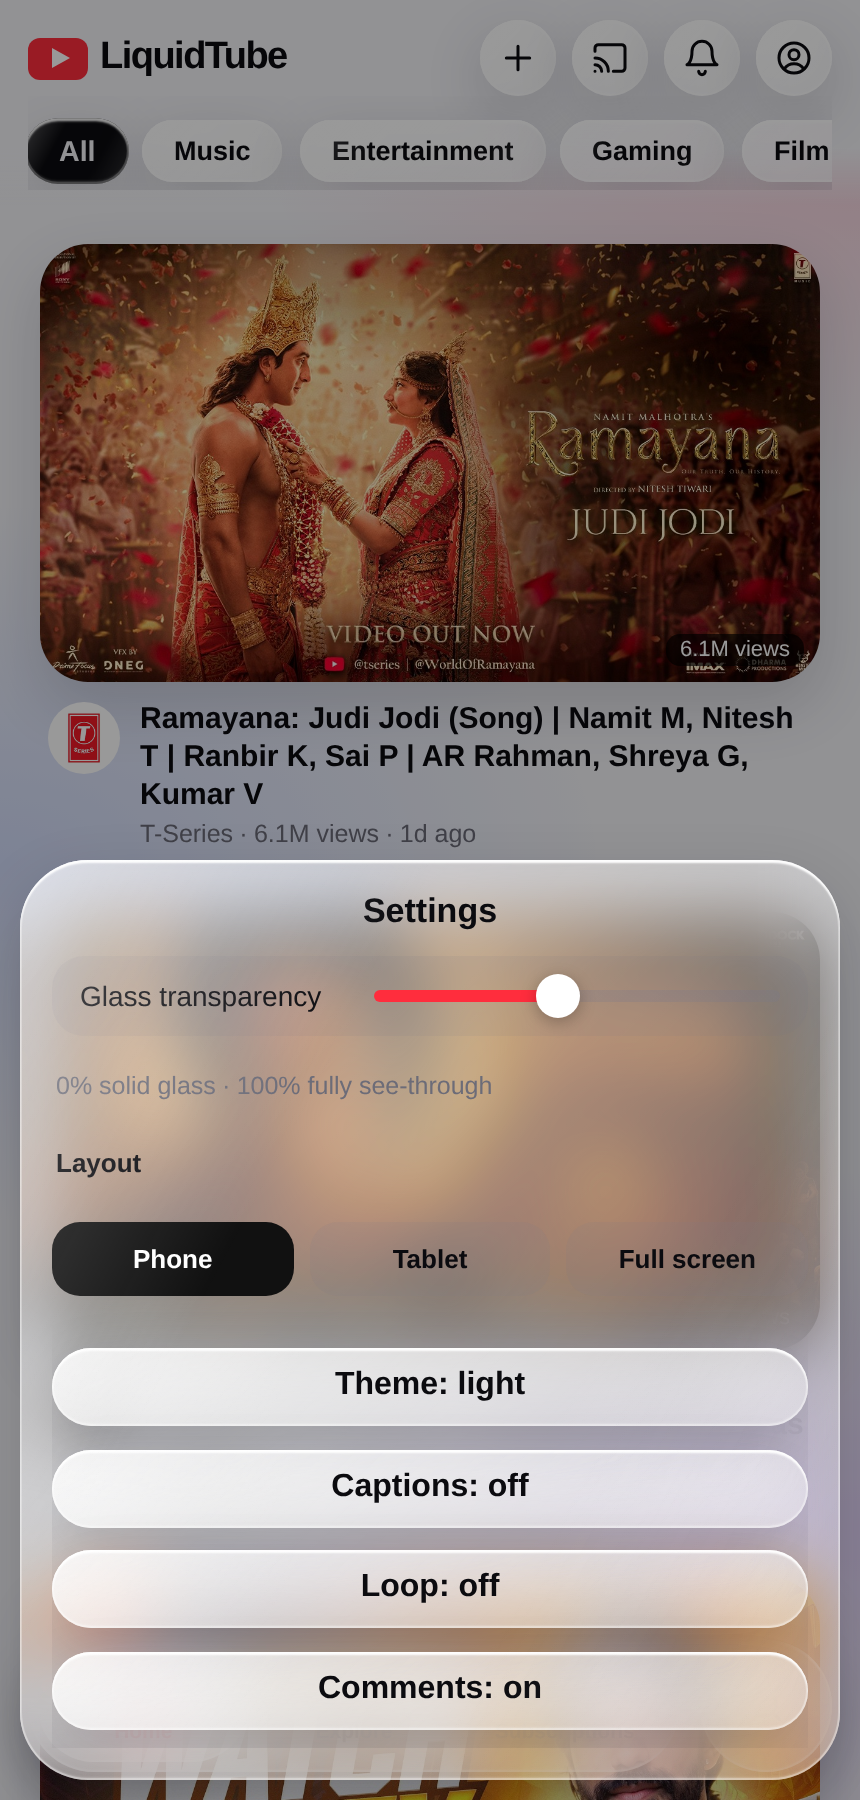
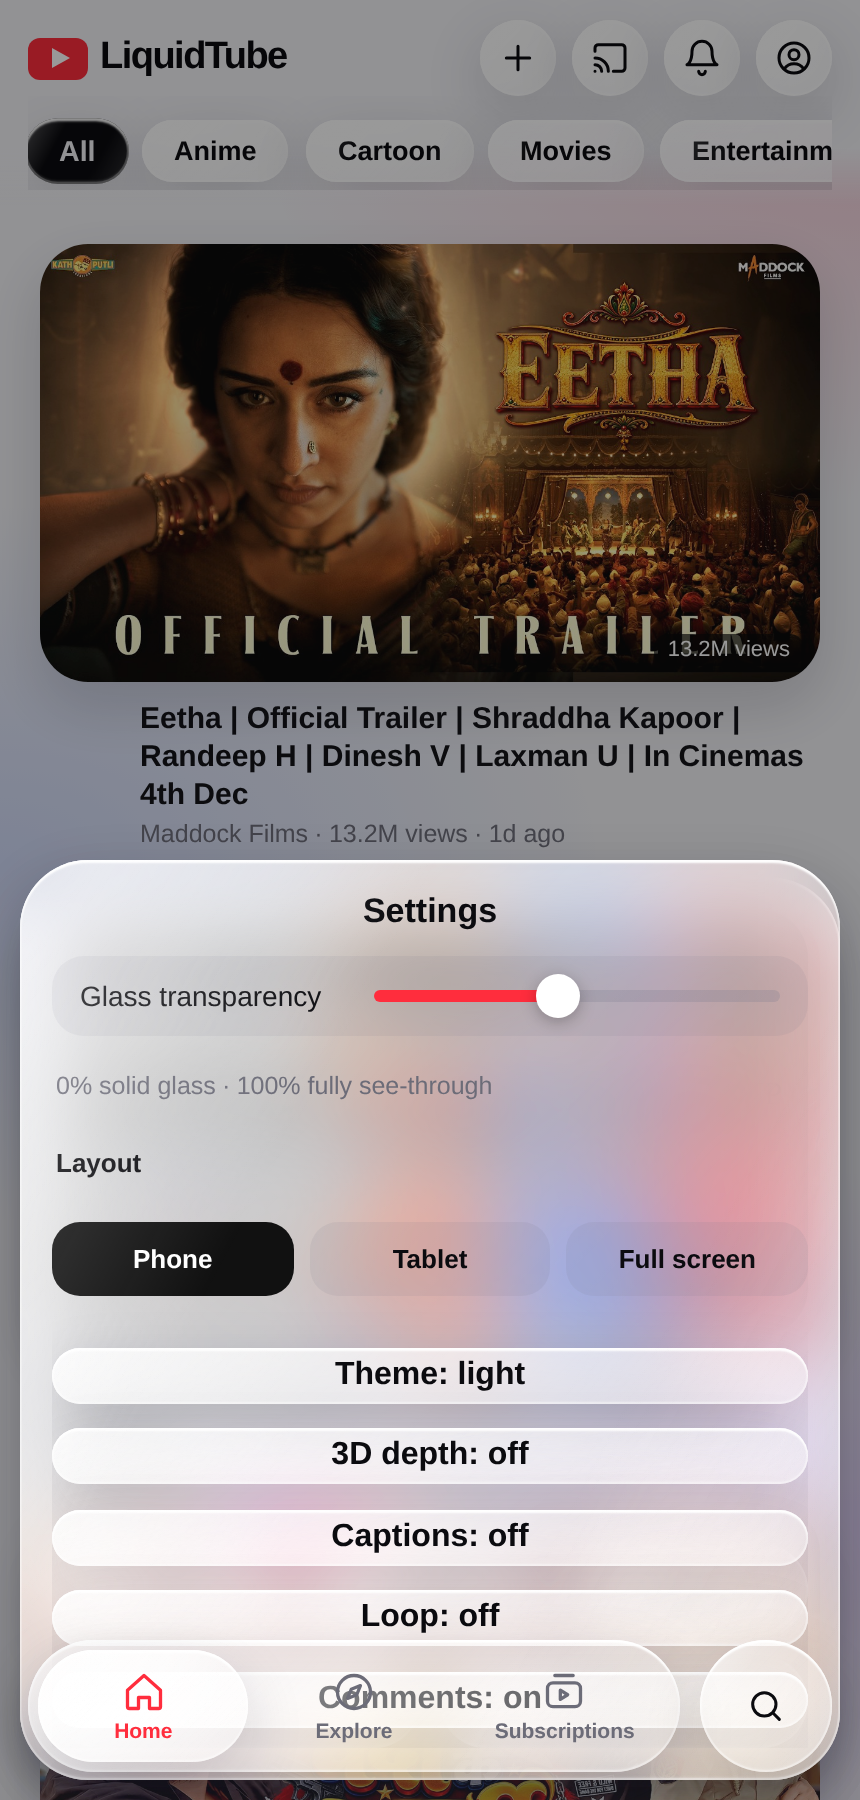
LiquidTube 7.5 — 3D depth
- Cards tilt under the finger: perspective on the list containers, preserve-3d on
  cards, pointer-driven rotateX/rotateY (9/11 degrees) plus translateZ(10px); thumb
  and meta sit on different Z planes for real parallax.
- Depth on scroll: cards recede (translateZ -30px, 5% scale) as they leave the
  centre, rAF-driven and limited to on-screen cards.
- Sheets rise with translateY + rotateX on the spring curve.
- Settings -> 3D depth on/off; html[data-depth=off] clears every transform.
- Fixed the depth default so the toggle flips on the first tap.
- APK rebuilt as versionCode 30 / versionName 7.5.

diff --git a/app/assets/index.html b/app/assets/index.html
@@ -19,7 +19,7 @@ button{font:inherit;color:inherit;background:none;border:0;cursor:pointer}
 .glass{position:relative;background:linear-gradient(135deg,var(--g1),var(--g2));backdrop-filter:blur(var(--glassBlur,16px)) saturate(190%) brightness(1.06);-webkit-backdrop-filter:blur(var(--glassBlur,16px)) saturate(190%) brightness(1.06);box-shadow:inset 0 0 0 1px rgba(255,255,255,.28),inset 0 1.5px 1px var(--rim),inset 0 -1.5px 1px rgba(255,255,255,.22),0 10px 30px var(--shade)}
 .glass::after{content:"";position:absolute;inset:0;border-radius:inherit;pointer-events:none;background:linear-gradient(118deg,rgba(255,255,255,.6),rgba(255,255,255,0) 32%,rgba(255,255,255,0) 68%,rgba(255,255,255,.3));opacity:.5}
 /* pages */
-.page{position:absolute;inset:0;overflow-y:auto;overflow-x:hidden;padding-bottom:150px;scrollbar-width:none;background:radial-gradient(70% 22% at 100% 6%,rgba(255,70,110,.22),transparent),radial-gradient(70% 20% at 0% 48%,rgba(70,120,255,.2),transparent),radial-gradient(70% 20% at 100% 85%,rgba(160,80,255,.18),transparent),var(--bg);transition:transform .95s var(--bounce-soft),opacity .45s ease;will-change:transform,opacity}
+.page{position:absolute;inset:0;z-index:0;overflow-y:auto;overflow-x:hidden;padding-bottom:150px;scrollbar-width:none;background:radial-gradient(70% 22% at 100% 6%,rgba(255,70,110,.22),transparent),radial-gradient(70% 20% at 0% 48%,rgba(70,120,255,.2),transparent),radial-gradient(70% 20% at 100% 85%,rgba(160,80,255,.18),transparent),var(--bg);transition:transform .95s var(--bounce-soft),opacity .45s ease;will-change:transform,opacity}
 .page::-webkit-scrollbar{display:none}.drag .page{transition:none}
 .top{position:sticky;top:0;z-index:5;padding:calc(env(safe-area-inset-top,0px) + 10px) 14px 8px;background:linear-gradient(var(--bg) 72%,transparent)}
 .row{display:flex;align-items:center;justify-content:space-between}
@@ -32,7 +32,16 @@ svg{width:20px;height:20px;fill:none;stroke:currentColor;stroke-width:1.8;stroke
 .chip{flex:none;padding:8px 16px;border-radius:99px;font-size:13.5px;font-weight:600;transition:background .3s,color .3s,scale .6s var(--bounce)}
 .chip.on{background:var(--ink);color:var(--bg);scale:1.06}
 h2{font-size:19px;font-weight:800;letter-spacing:-.03em;padding:14px 14px 8px}
-.card{margin:6px 14px 18px;text-align:left;display:block;width:calc(100% - 28px)}
+#feed,#subfeed,#chlist,#animefeed,#cartoonfeed,#moviesfeed,#results,#ex{perspective:1500px;perspective-origin:50% 40%}
+.card{margin:6px 14px 18px;text-align:left;display:block;width:calc(100% - 28px);
+  transform-style:preserve-3d;transform:translateZ(0);
+  transition:transform .55s var(--bounce),box-shadow .35s ease;
+  will-change:transform}
+.card.tilt{transition:transform .08s linear,box-shadow .2s ease}
+.card .thumb{transform:translateZ(0)}
+.card .meta{transform:translateZ(18px)}
+.card.tilt .thumb{box-shadow:0 26px 46px -18px rgba(10,12,26,.45)}
+html[data-depth=off] .card,html[data-depth=off] .card .meta{transform:none!important;transition:none}
 .thumb{aspect-ratio:16/9;border-radius:24px;position:relative;overflow:hidden;box-shadow:0 12px 30px var(--shade)}
 .thumb u{position:absolute;right:10px;bottom:10px;padding:2px 7px;border-radius:7px;background:#000a;color:#fff;font-size:11px;text-decoration:none}
 .meta{display:flex;gap:10px;padding:10px 4px}
@@ -54,7 +63,7 @@ input[type=range]::-moz-range-thumb{width:20px;height:20px;border:0;border-radiu
 .sg{display:grid;grid-template-columns:repeat(4,1fr);gap:12px;padding:6px 14px 10px}
 .sg button{text-align:center;font-size:11.5px;font-weight:600}.sg i{display:block;width:100%;aspect-ratio:1;border-radius:50%;margin-bottom:6px;box-shadow:0 6px 16px var(--shade);transition:transform .3s,outline-color .3s;outline:3px solid transparent;outline-offset:2px}.sg .on i{outline-color:var(--red);transform:scale(.92)}
 /* ===== dock ===== */
-.dock{position:absolute;left:14px;right:14px;bottom:calc(env(safe-area-inset-bottom,0px) + 14px);display:flex;gap:10px;z-index:20}
+.dock{position:absolute;left:14px;right:14px;bottom:calc(env(safe-area-inset-bottom,0px) + 14px);display:flex;gap:10px;z-index:60;transform-style:flat}
 .tabs{flex:1;height:66px;position:relative;touch-action:pan-y;user-select:none;-webkit-user-select:none}
 .tabs .bg{position:absolute;inset:0;border-radius:99px}
 .lens{position:absolute;left:5px;top:5px;bottom:5px;width:calc((100% - 10px)/3);border-radius:99px;transition:transform .9s var(--bounce);--g1:rgba(255,255,255,.7);--g2:rgba(255,255,255,.22);pointer-events:none}
@@ -77,6 +86,11 @@ input[type=range]::-moz-range-thumb{width:20px;height:20px;border:0;border-radiu
 #pl.on,#sheet.on{transform:none}
 #pl b{font-size:16px;line-height:1.3}#pl>span,.tm{font-size:12.5px;color:var(--mute)}.tm{display:flex;justify-content:space-between}
 .prow{display:flex;gap:10px;margin-top:4px}.prow button{flex:1;height:46px;border-radius:99px;font-weight:700}
+nav.dock{transition:transform .5s var(--bounce),box-shadow .4s ease}
+nav.dock:active{transform:scale(.985)}
+#sheet{transform-origin:50% 100%;transform:translateY(14px) rotateX(9deg) scale(.97);opacity:0;transition:transform .6s var(--bounce),opacity .35s ease}
+#sheet.on{transform:none;opacity:1}
+html[data-depth=off] nav.dock,html[data-depth=off] #sheet{transform:none!important}
 #sheet{max-height:70%}#sheet h3{font-size:17px;text-align:center;padding-bottom:4px}
 #shb{overflow:auto;display:flex;flex-direction:column;gap:12px;max-height:44vh}
 .cm{display:flex;gap:10px;font-size:13.5px;line-height:1.35}.cm .av{width:30px;height:30px}.cm small{color:var(--mute);display:block;font-size:11.5px}
@@ -244,8 +258,8 @@ const thumbImg=id=>'<img src="https://i.ytimg.com/vi/'+esc(id)+'/maxresdefault.j
 
 /* ---------- persisted state ---------- */
 const SKEY='lt';
-let S={liked:[],subs:[],later:[],hist:[],vd:{},pl:{},cats:{},opt:{cc:0,loop:0,auto:1,fill:0,cmt:1,ds:1,sg:1,glass:45,layout:'phone'}};
-try{const p=JSON.parse(localStorage.getItem(SKEY)||'{}');Object.assign(S,p);S.opt=Object.assign({cc:0,loop:0,auto:1,fill:0,cmt:1,ds:1,sg:1,glass:45,layout:'phone'},p.opt||{})}catch(e){}
+let S={liked:[],subs:[],later:[],hist:[],vd:{},pl:{},cats:{},opt:{cc:0,loop:0,auto:1,fill:0,cmt:1,ds:1,sg:1,depth:1,glass:45,layout:'phone'}};
+try{const p=JSON.parse(localStorage.getItem(SKEY)||'{}');Object.assign(S,p);S.opt=Object.assign({cc:0,loop:0,auto:1,fill:0,cmt:1,ds:1,sg:1,depth:1,glass:45,layout:'phone'},p.opt||{})}catch(e){}
 const save=()=>{try{localStorage.setItem(SKEY,JSON.stringify(S))}catch(e){}};
 S.vd=S.vd||{};try{localStorage.removeItem('lt_shorts')}catch(e){}
 document.addEventListener('touchstart',()=>{},{passive:true});
@@ -339,7 +353,7 @@ const meta=v=>[v.views?num(v.views)+' views':'',v.pub?ago(v.pub):''].filter(Bool
 const cardOf=(v,i)=>'<button class="card" style="--i:'+Math.min(i||0,8)+'" data-v="'+esc(v.id)+'"><div class="thumb">'+thumbImg(v.id)+(v.views?'<u>'+num(v.views)+' views</u>':'')+'</div>'+
   '<div class="meta">'+(v.ch&&CH[v.ch]&&CH[v.ch].av?'<img class="av" src="'+esc(CH[v.ch].av)+'" alt="" onerror="this.style.visibility=\'hidden\'">':'<div class="av" style="background:'+g(hash(v.id))+'"></div>')+
   '<div><b>'+esc(v.t)+'</b><span>'+esc(v.c)+(v.views?' · '+num(v.views)+' views':'')+(v.pub?' · '+ago(v.pub):'')+'</span></div></div></button>';
-const list=(arr,el)=>{el.innerHTML=arr&&arr.length?arr.map(cardOf).join(''):'<div class="empty">Nothing here yet.</div>'};
+const list=(arr,el)=>{el.innerHTML=arr&&arr.length?arr.map(cardOf).join(''):'<div class="empty">Nothing here yet.</div>';setTimeout(depthKick,60)};
 
 /* ---------- chips ---------- */
 let cat='All';
@@ -612,6 +626,7 @@ function settingsHTML(){
     '<div style="font-size:13px;font-weight:700;margin:0 2px 8px">Layout</div>'+
     '<div class="laychips">'+btn('phone','Phone')+btn('tablet','Tablet')+btn('full','Full screen')+'</div>'+
     '<button class="opt glass" data-tgl="theme">Theme: '+(document.documentElement.dataset.theme==='dark'?'dark':'light')+'</button>'+
+    '<button class="opt glass" data-opt="depth">3D depth: '+(DEPTH()?'on':'off')+'</button>'+
     '<button class="opt glass" data-opt="cc">Captions: '+(S.opt.cc?'on':'off')+'</button>'+
     '<button class="opt glass" data-opt="loop">Loop: '+(S.opt.loop?'on':'off')+'</button>'+
     '<button class="opt glass" data-opt="cmt">Comments: '+(S.opt.cmt?'on':'off')+'</button>';
@@ -651,7 +666,8 @@ $('shb').addEventListener('click',e=>{
       ids.length?ids.map(id=>V[id]?cardOf(V[id]):'').join(''):'<div class="empty">Nothing saved yet.</div>',0);
   }
   const o=e.target.closest('[data-opt]');
-  if(o){const k=o.dataset.opt;S.opt[k]=S.opt[k]?0:1;save();o.textContent=({cc:'Captions',loop:'Loop',cmt:'Comments'})[k]+': '+(S.opt[k]?'on':'off')}
+  if(o){const k=o.dataset.opt;S.opt[k]=S.opt[k]?0:1;save();if(k==='depth')applyDepth();
+    o.textContent=({cc:'Captions',loop:'Loop',cmt:'Comments',depth:'3D depth'})[k]+': '+(S.opt[k]?'on':'off')}
 });
 $('shpost').onclick=()=>toast('Comments open on YouTube');
 
@@ -718,6 +734,56 @@ loadTrending().then(()=>new Promise(r=>setTimeout(r,Math.max(0,1100-(performance
   renderExplore();
   renderSubs();
 });
+
+/* ---------- 3D depth: cards tilt under the finger ---------- */
+const DEPTH=()=>S.opt.depth!==0;
+function applyDepth(){document.documentElement.dataset.depth=DEPTH()?'on':'off'}
+applyDepth();
+
+let tiltEl=null;
+function tiltStart(e){
+  if(!DEPTH())return;
+  const card=e.target.closest('.card');
+  if(!card||e.pointerType==='mouse')return;
+  tiltEl=card;card.classList.add('tilt');
+}
+function tiltMove(e){
+  if(!tiltEl||!DEPTH())return;
+  if(!tiltEl.classList.contains('tilt'))tiltEl.classList.add('tilt');
+  const r=tiltEl.getBoundingClientRect();
+  const px=(e.clientX-r.left)/r.width-.5;      // -0.5 .. 0.5
+  const py=(e.clientY-r.top)/r.height-.5;
+  const rx=(-py*9).toFixed(2), ry=(px*11).toFixed(2);
+  tiltEl.style.transform=`rotateX(${rx}deg) rotateY(${ry}deg) translateZ(10px) scale(1.015)`;
+}
+function tiltEnd(){
+  if(!tiltEl)return;
+  const c=tiltEl;tiltEl=null;
+  c.style.transform='';
+  setTimeout(()=>c.classList.remove('tilt'),260);
+}
+/* cards recede slightly as they move away from the centre of the screen */
+let depthRaf=0;
+function depthScroll(){
+  if(!DEPTH())return;
+  const vh=innerHeight;
+  document.querySelectorAll('.page .card').forEach(c=>{
+    if(c.classList.contains('tilt'))return;
+    const r=c.getBoundingClientRect();
+    if(r.bottom<-80||r.top>vh+80){c.style.transform='';return}
+    const d=Math.min(1,Math.abs((r.top+r.height/2)-vh/2)/(vh*0.62));
+    c.style.transform=`translateZ(${(-d*30).toFixed(1)}px) scale(${(1-d*0.05).toFixed(3)})`;
+    c.style.opacity=(1-d*0.18).toFixed(3);
+  });
+}
+function depthKick(){if(!DEPTH())return;cancelAnimationFrame(depthRaf);depthRaf=requestAnimationFrame(depthScroll)}
+document.addEventListener('scroll',depthKick,{capture:true,passive:true});
+addEventListener('resize',depthKick);
+
+document.addEventListener('pointerdown',tiltStart,{passive:true});
+document.addEventListener('pointermove',tiltMove,{passive:true});
+document.addEventListener('pointerup',tiltEnd,{passive:true});
+document.addEventListener('pointercancel',tiltEnd,{passive:true});
 
 /* ---------- toast ---------- */
 let tt;function toast(t){const e=$('toast');e.textContent=t;e.classList.add('on');clearTimeout(tt);tt=setTimeout(()=>e.classList.remove('on'),2200)}
